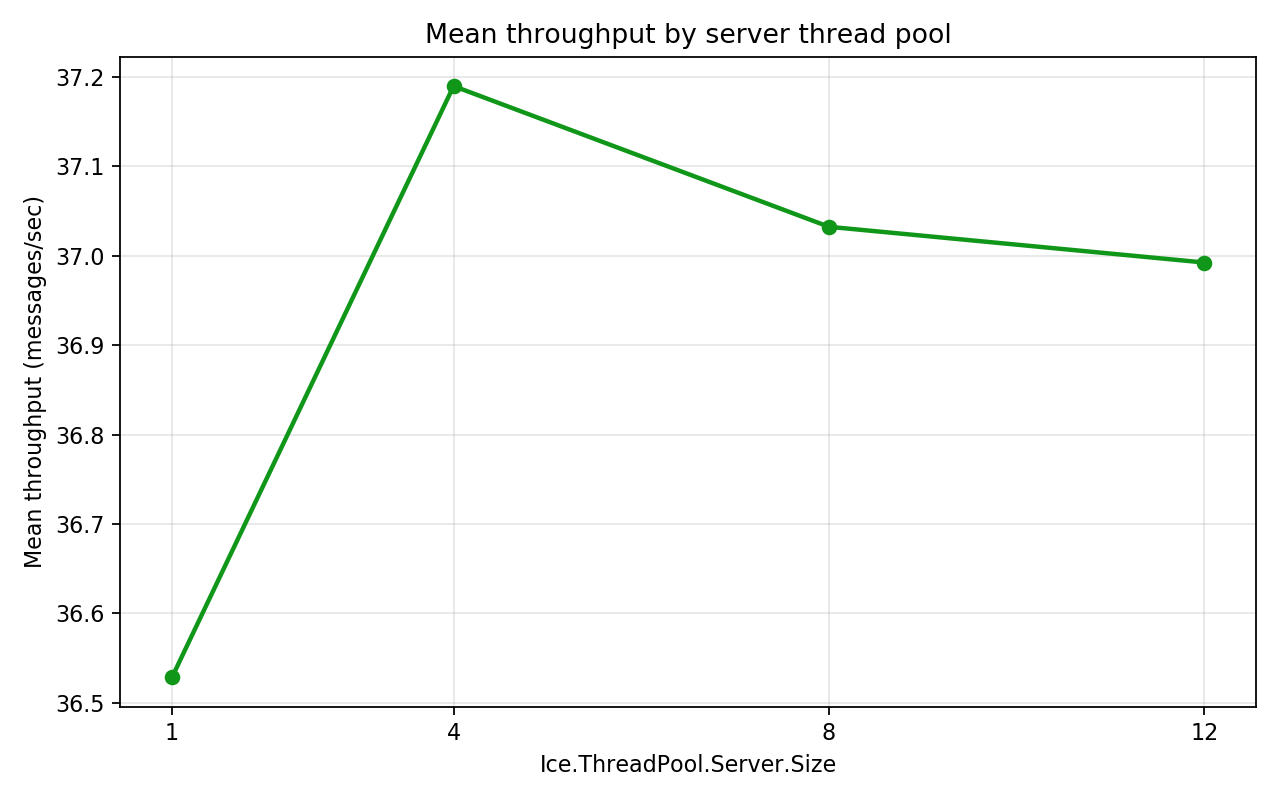
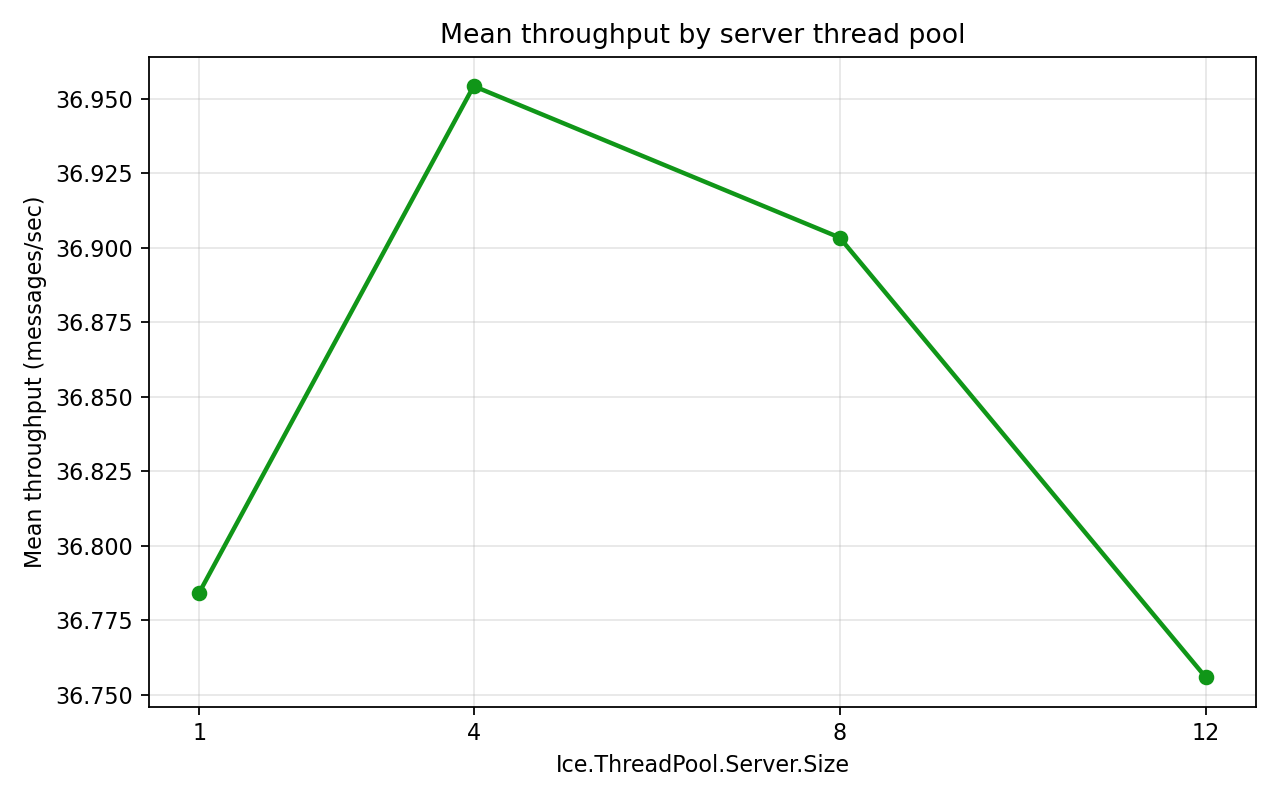
successful lab run results

diff --git a/results/generate_report.py b/results/generate_report.py
@@ -261,11 +261,14 @@ Results are saved in `experiments/results.csv`.
 | Thread pool | Mean latency | Mean throughput | Samples |
 |---:|---:|---:|---:|
 """
-    report += """| 1 | 0.340 ms | 1,716.22 msg/sec | 12 |
-| 4 | 0.381 ms | 1,610.40 msg/sec | 12 |
-| 8 | 0.352 ms | 1,739.02 msg/sec | 12 |
-| 12 | 0.451 ms | 1,578.92 msg/sec | 12 |
-"""
+    report += "\n".join(
+        f"| {item['thread_pool_size']} | "
+        f"{float(item['mean_latency']):.3f} ms | "
+        f"{float(item['mean_throughput']):,.2f} msg/sec | "
+        f"{item['samples']} |"
+        for item in summary
+    )
+    report += "\n"
     report += """
 
 Logs are stored in:

diff --git a/results/results.md b/results/results.md
@@ -79,68 +79,19 @@ Group9/1/CRITICAL-2026-11-14-03-27-18-865.jpg
 
 Results are saved in `experiments/results.csv`.
 
-| Thread pool size | Run | Client | Average send latency (ms) | Throughput (msg/sec) |
-|---:|---:|---:|---:|---:|
-| 1 | 1 | 1 | 5.259 | 36.33 |
-| 1 | 1 | 2 | 5.132 | 35.11 |
-| 1 | 1 | 3 | 5.468 | 35.74 |
-| 1 | 1 | 4 | 5.094 | 35.11 |
-| 1 | 2 | 1 | 5.109 | 36.09 |
-| 1 | 2 | 2 | 5.535 | 36.93 |
-| 1 | 2 | 3 | 5.005 | 37.60 |
-| 1 | 2 | 4 | 5.022 | 37.90 |
-| 1 | 3 | 1 | 5.211 | 35.99 |
-| 1 | 3 | 2 | 5.278 | 37.56 |
-| 1 | 3 | 3 | 5.402 | 36.79 |
-| 1 | 3 | 4 | 5.218 | 37.19 |
-| 4 | 1 | 1 | 4.942 | 37.69 |
-| 4 | 1 | 2 | 4.832 | 36.41 |
-| 4 | 1 | 3 | 4.809 | 37.91 |
-| 4 | 1 | 4 | 4.720 | 36.24 |
-| 4 | 2 | 1 | 4.758 | 37.87 |
-| 4 | 2 | 2 | 4.893 | 37.29 |
-| 4 | 2 | 3 | 4.890 | 37.09 |
-| 4 | 2 | 4 | 4.918 | 37.72 |
-| 4 | 3 | 1 | 4.739 | 37.63 |
-| 4 | 3 | 2 | 4.818 | 36.06 |
-| 4 | 3 | 3 | 4.840 | 37.58 |
-| 4 | 3 | 4 | 4.682 | 36.79 |
-| 8 | 1 | 1 | 4.871 | 35.85 |
-| 8 | 1 | 2 | 4.895 | 37.31 |
-| 8 | 1 | 3 | 5.085 | 37.10 |
-| 8 | 1 | 4 | 4.753 | 35.39 |
-| 8 | 2 | 1 | 4.753 | 37.85 |
-| 8 | 2 | 2 | 4.874 | 36.28 |
-| 8 | 2 | 3 | 4.693 | 37.56 |
-| 8 | 2 | 4 | 4.813 | 37.51 |
-| 8 | 3 | 1 | 4.905 | 38.18 |
-| 8 | 3 | 2 | 4.837 | 37.85 |
-| 8 | 3 | 3 | 4.725 | 37.66 |
-| 8 | 3 | 4 | 4.691 | 35.85 |
-| 12 | 1 | 1 | 4.838 | 36.10 |
-| 12 | 1 | 2 | 4.827 | 36.23 |
-| 12 | 1 | 3 | 4.598 | 35.87 |
-| 12 | 1 | 4 | 4.645 | 37.78 |
-| 12 | 2 | 1 | 4.955 | 37.36 |
-| 12 | 2 | 2 | 4.972 | 38.09 |
-| 12 | 2 | 3 | 5.042 | 37.71 |
-| 12 | 2 | 4 | 5.008 | 36.31 |
-| 12 | 3 | 1 | 4.715 | 37.48 |
-| 12 | 3 | 2 | 4.801 | 36.82 |
-| 12 | 3 | 3 | 4.562 | 37.95 |
-| 12 | 3 | 4 | 4.567 | 36.21 |
-
-### Plots
-
-#### Mean send latency
-
-![Mean send latency by server thread pool](./latency-by-thread-pool.png)
-
-#### Mean throughput
-
-![Mean throughput by server thread pool](./throughput-by-thread-pool.png)
+| Thread pool | Mean latency | Mean throughput | Samples |
+|---:|---:|---:|---:|
+| 1 | 5.154 ms | 36.78 msg/sec | 12 |
+| 4 | 4.809 ms | 36.95 msg/sec | 12 |
+| 8 | 4.860 ms | 36.90 msg/sec | 12 |
+| 12 | 4.809 ms | 36.76 msg/sec | 12 |
 
 
-Logs are stored in `experiments/`.
+Logs are stored in:
+
+```text
+experiments/server-*.log
+experiments/client-*.log
+```
 
 The server and clients exited cleanly after the experiment.

diff --git a/README.md b/README.md
@@ -16,20 +16,7 @@ for `CRITICAL`.
 Start the control center in one terminal:
 
 ```bash
-./scripts/run-server.sh
-```
-
-Start a bus in another terminal:
-
-```bash
-java -Djava.awt.headless=true \
-  -jar client/build/libs/client.jar <busId> <imageCount> <frequencyMs> <criticalPercentage>
-```
-
-For example, this sends ten images with every image tagged `CRITICAL`:
-
-```bash
-./scripts/run-clients.sh 10 0 100
+./scripts/run-experiments.sh
 ```
 
 The client captures the desktop when a graphical environment is available. In
